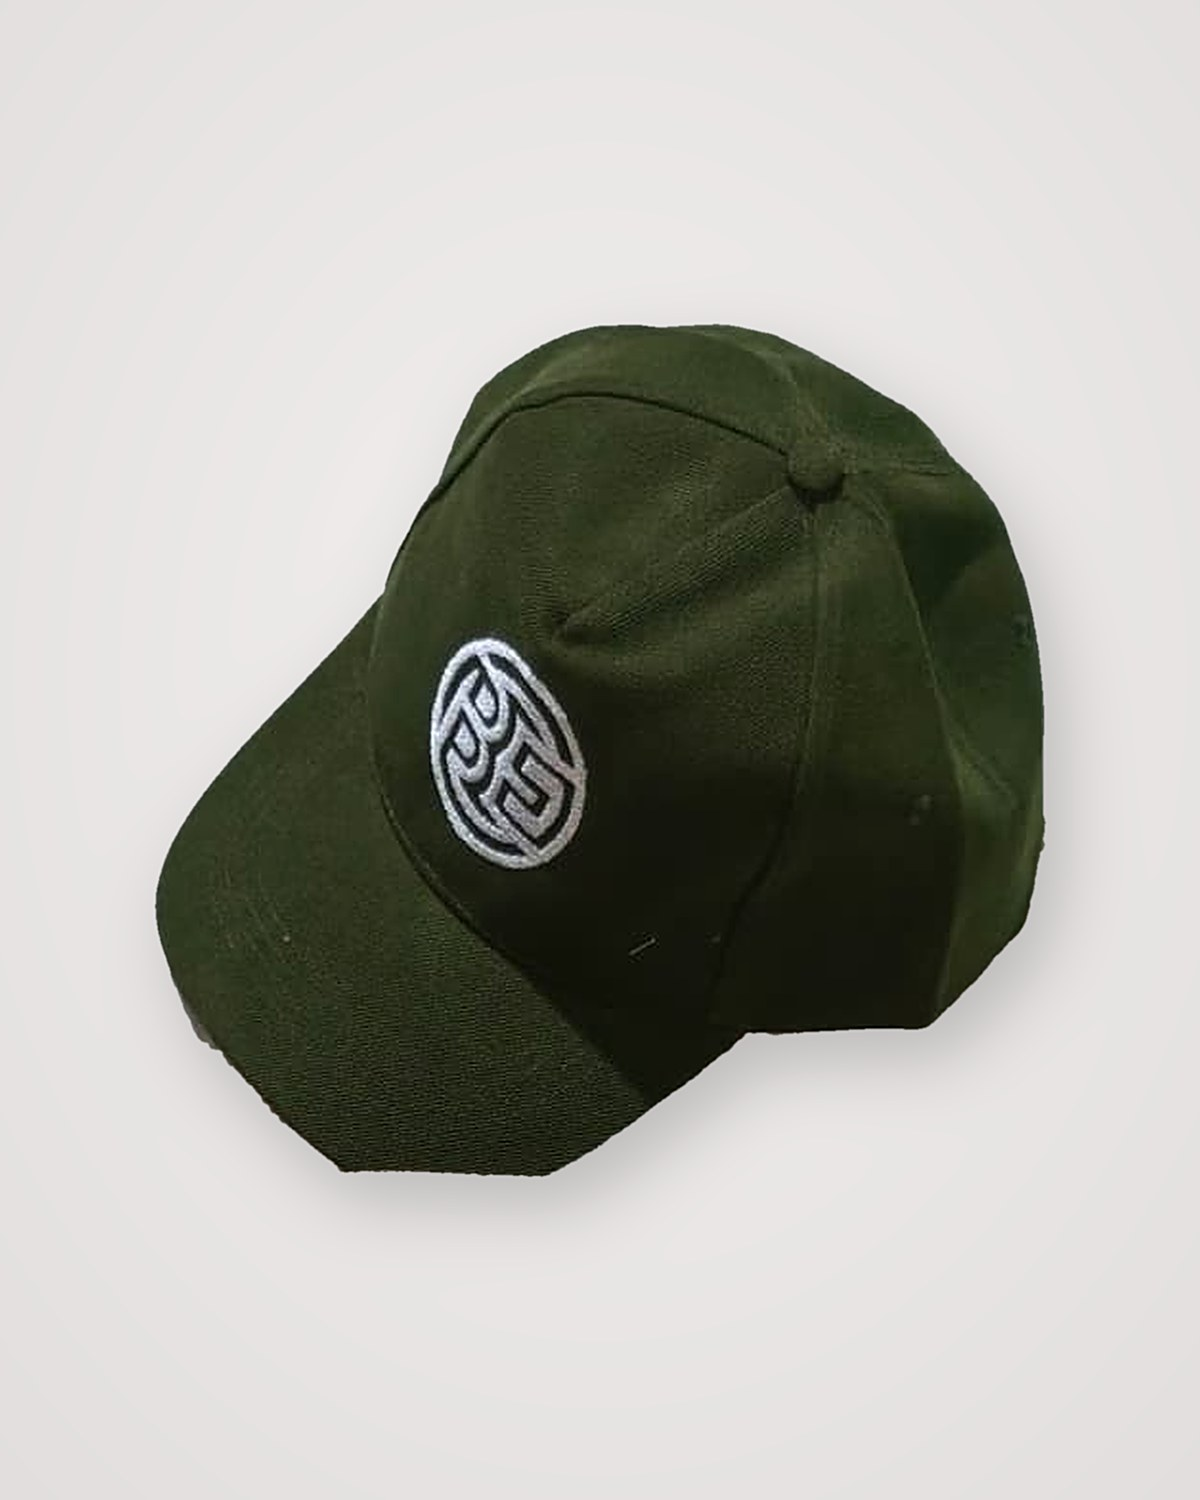
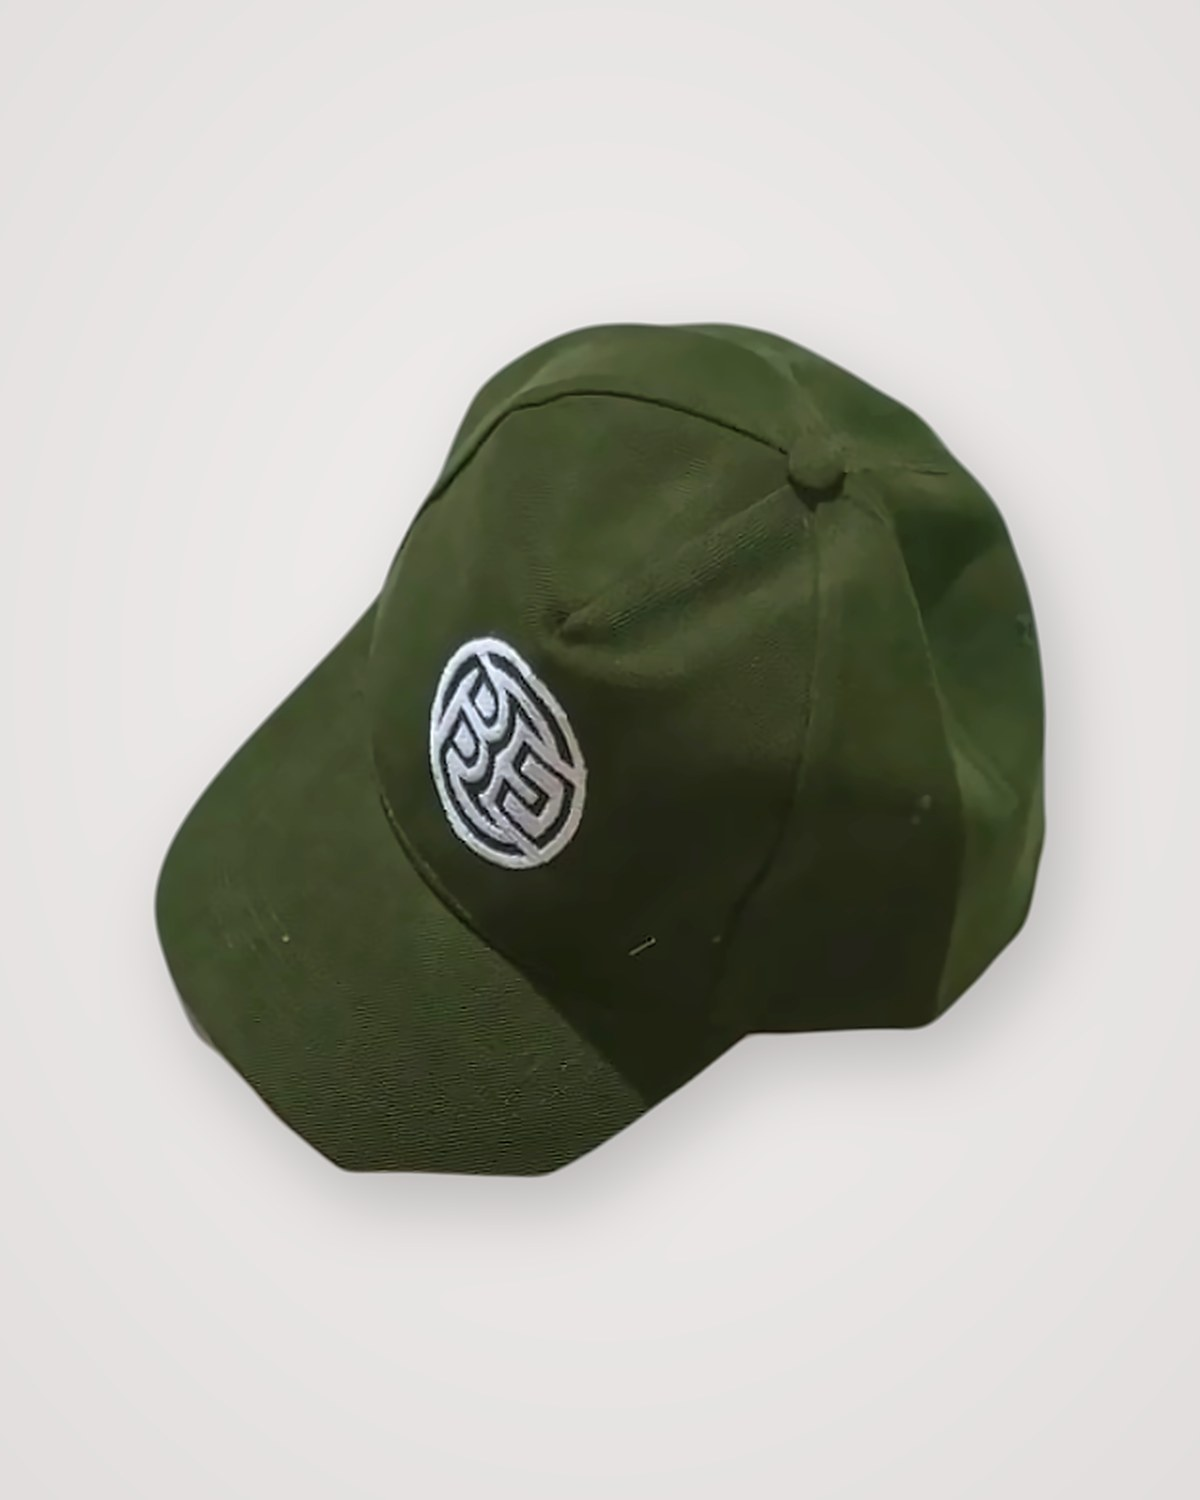
fix: casquettes — 3 photos entières seulement, kaki plus propre
- Supprime les 4 gros plans (broderie, matière, visière)
- Kaki : bruit réduit, vert plus franc, contour lissé sans traînée du drap
- Clé localStorage be-stock-v9

Claude-Session: https://claude.ai/code/session_016dNd9d1iTc9sQswsxLH3uE

diff --git a/app/page.tsx b/app/page.tsx
@@ -40,7 +40,7 @@ export default function Home() {
 
   // --- SAUVEGARDE & LOGIQUE ---
   useEffect(() => {
-    const savedProducts = localStorage.getItem('be-stock-v8');
+    const savedProducts = localStorage.getItem('be-stock-v9');
     const savedCart = localStorage.getItem('be-cart');
     const savedPromos = localStorage.getItem('be-promos');
     
@@ -70,7 +70,7 @@ export default function Home() {
     setIsLoaded(true);
   }, []);
 
-  useEffect(() => { if (isLoaded) localStorage.setItem('be-stock-v8', JSON.stringify(products)); }, [products, isLoaded]);
+  useEffect(() => { if (isLoaded) localStorage.setItem('be-stock-v9', JSON.stringify(products)); }, [products, isLoaded]);
   useEffect(() => { if (isLoaded) localStorage.setItem('be-cart', JSON.stringify(cart)); }, [cart, isLoaded]);
   useEffect(() => { if (isLoaded) localStorage.setItem('be-promos', JSON.stringify(promoCodes)); }, [promoCodes, isLoaded]);
 

diff --git a/data/store.ts b/data/store.ts
@@ -62,11 +62,7 @@ export const INITIAL_PRODUCTS: Product[] = [
     images: [
       "/images/casquette-navy.jpg",
       "/images/casquette-bordeaux.jpg",
-      "/images/casquette-kaki.jpg",
-      "/images/casquette-broderie-navy.jpg",
-      "/images/casquette-broderie-bordeaux.jpg",
-      "/images/casquette-matiere-navy.jpg",
-      "/images/casquette-visiere-bordeaux.jpg"
+      "/images/casquette-kaki.jpg"
     ],
     stock: 15,
     sizes: ["Unique"],
